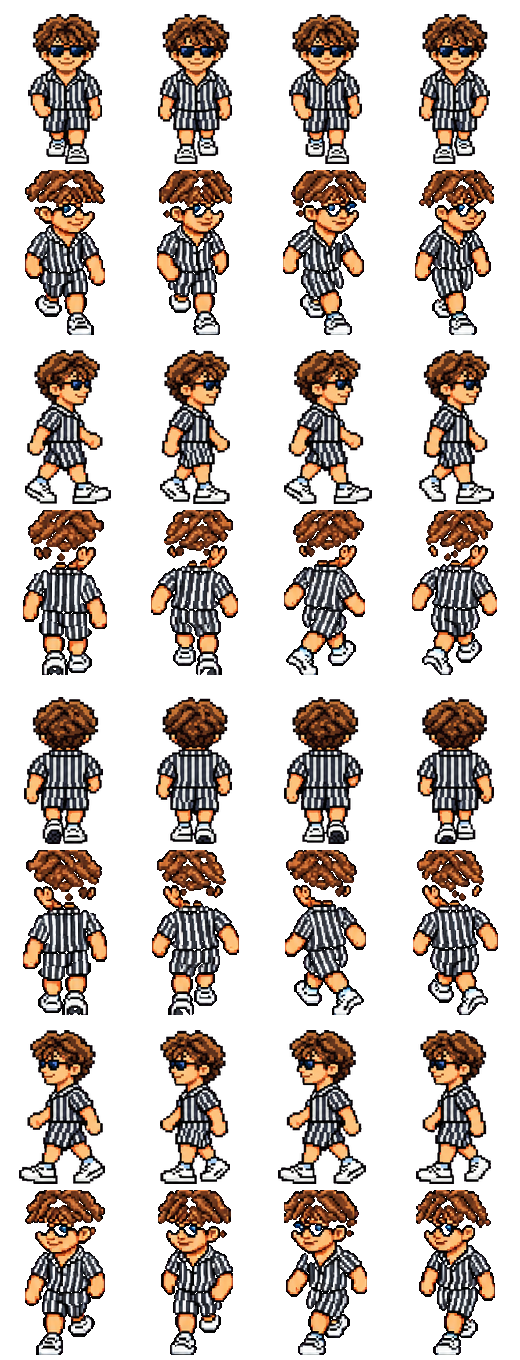
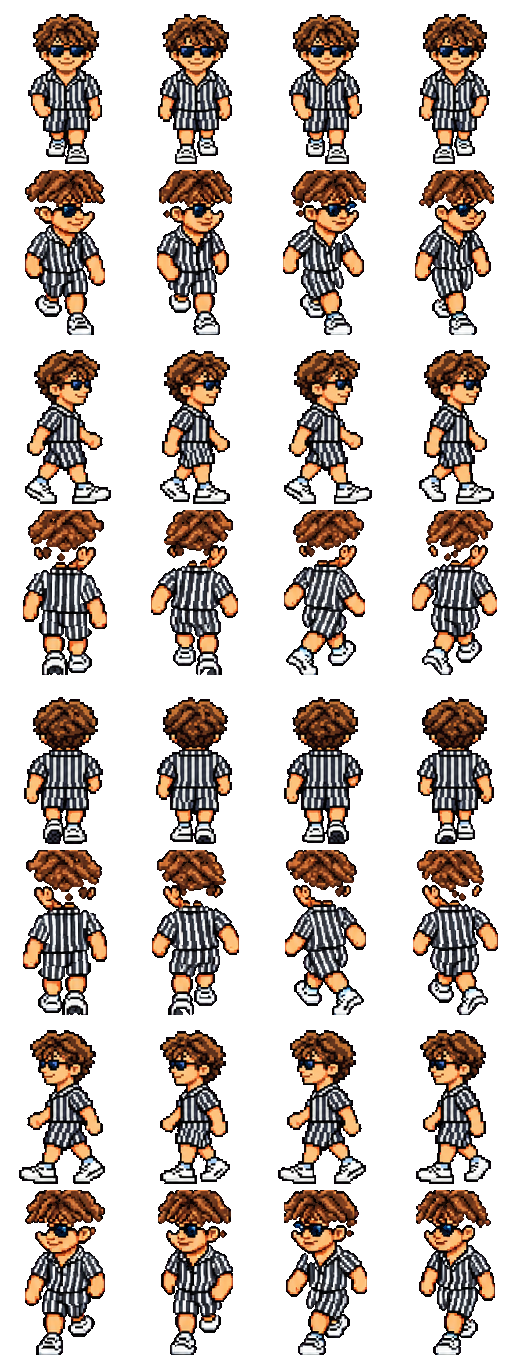
Characters: clean Arek 8-direction sheet, regrid NPC cells, drop cemetery no-glasses variant
- arek_sheet_8dir.png: filled see-through hair/glasses/collar holes in diagonal rows
  (gen/sprite_cleanup.py upper-holes); keying holes fixed + alpha hardened in Arek sheets
- npcs.png: grandpa + mateusz re-gridded (sources in gen/npc_src/*_grid.png)
- Arek uses only arek_sheet_8dir.png (no extra arek_sheet.png download at runtime)
- no-glasses sheets, generator and sunglasses test moved to _archive/2026-10-03-arek-noglasses
- cemetery line: 'Arek zwalnia i idzie ciszej.' / 'Arek slows down and walks quietly.'

Changed region(s): [[0.3692, 0.1235, 0.4, 0.1544], [0.1231, 0.1235, 0.1538, 0.1544], [0.0923, 0.8647, 0.1231, 0.8956]]

diff --git a/docs/js/game.js b/docs/js/game.js
@@ -60,7 +60,7 @@
       ],
       church: ['Kościół pw. Narodzenia NMP. Dzwony biją w południe. Arek, jak zwykle, spóźniony.'],
       rectory: ['Plebania. Ksiądz macha z okna. Arek udaje, że poprawia okulary.'],
-      cemetery: ['Cmentarz parafialny. Arek zdejmuje okulary. Na chwilę.'],
+      cemetery: ['Cmentarz parafialny. Arek zwalnia i idzie ciszej.'],
       windmill: ['Wiatrak „Koźlak”. Stoi tu dłużej niż ktokolwiek pamięta. Skrzypi, jakby coś mówił.'],
       shop: ['Sklep spożywczo-przemysłowy. Półki są ciasne, ale pełne: oranżada, chleb, konserwy, nabiał i słodycze.', 'Pani sklepowa zna ceny na pamięć. I wie, kto kupił ostatniego pączka.'],
       shopBuy: ['Pani ze sklepu: „Oranżada? Ostatnia butelka, dla Marcina.”', 'Arek dostaje oranżadę!'],
@@ -126,7 +126,7 @@
       ],
       church: ['Church of the Nativity of the Virgin Mary. Bells at noon. Arek is late, as usual.'],
       rectory: ['The rectory. The priest waves from a window. Arek pretends to fix his sunglasses.'],
-      cemetery: ['The parish cemetery. Arek takes his sunglasses off. For a moment.'],
+      cemetery: ['The parish cemetery. Arek slows down and walks quietly.'],
       windmill: ['The "Koźlak" windmill. Older than anyone remembers. It creaks like it wants to talk.'],
       shop: ['The village shop. Tight aisles, full shelves: orangeade, bread, tins, dairy and sweets.', 'The shopkeeper knows every price by heart. And who bought the last doughnut.'],
       shopBuy: ['Shop lady: "Orangeade? Last bottle. For Marcin."', 'Arek got an ORANGEADE!'],
@@ -1201,16 +1201,6 @@
   addEventListener('resize', resize);
 
   function shadow(sx, sy, s, w = 8.5) { ctx.fillStyle = 'rgba(20,34,12,0.38)'; ctx.beginPath(); ctx.ellipse(sx, sy, w * s, 3 * s, 0, 0, Math.PI * 2); ctx.fill(); }
-  // Cemetery zone: the OSM landuse rectangle around the cemetery POI (same as music.js), with hysteresis at the edge.
-  // Inside it Arek takes his sunglasses off (img/arek_sheet_noglasses.png, same layout as arek_sheet.png).
-  const CEM_HALF = [112, 97];
-  let inCemetery = false;
-  function cemeteryZone() {
-    const c = !ROOM && MAP && MAP.pois.find(p => p.key === 'cemetery');
-    if (!c) return (inCemetery = false);
-    const m = inCemetery ? 70 : 25;
-    return (inCemetery = Math.abs(P.x - c.x) < CEM_HALF[0] + m && Math.abs(P.y - c.y) < CEM_HALF[1] + m);
-  }
   function spriteAnim(meta, prefix, dir) {
     return meta.anims[prefix + dir] || meta.anims[prefix + cardinalDir(dir)] || meta.anims[prefix + 'down'];
   }
@@ -1218,7 +1208,7 @@
     const h = CHAR_H * s, zk = 1 - P.z / JUMP_H * .45;
     ctx.globalAlpha = zk; shadow(sx, sy, s * zk); ctx.globalAlpha = 1;
     sy -= P.z * s;
-    const { meta } = SPR, sheet = (inCemetery && selectedCharacter === 'arek' && SPR.bare) || SPR.sheet;   // no-glasses sheet exists only for Arek
+    const { meta, sheet } = SPR;
     const anim = spriteAnim(meta, P.moving || P.air ? 'walk_' : 'idle_', P.dir) || spriteAnim(meta, 'walk_', P.dir);
     const f = anim.frames[P.air ? 2 % anim.frames.length : P.moving ? Math.floor(P.step) % anim.frames.length : 0];
     const scale = h / (f.h - meta.foot - 14), w = f.w * scale, hh = f.h * scale;
@@ -1666,7 +1656,6 @@ function drawFrodo(sx, sy, s) {
     if (!ROOM) HOOKS.world.forEach(f => f((base, fn) => draw.push({ base, fn }), S, inView));
     draw.sort((a, b) => a.base - b.base).forEach(d => d.fn());
     const cemetery = !ROOM && MAP.pois.find(p => p.key === 'cemetery');
-    cemeteryZone();   // decides the sunglasses for the next frame too
     if (scene === 'play' && !showMap && cemetery && Math.hypot(P.x - cemetery.x, P.y - cemetery.y) < (SPOT_R.cemetery + 35)) {
       ctx.save(); ctx.globalCompositeOperation = 'saturation'; ctx.globalAlpha = .16; ctx.fillStyle = '#777'; ctx.fillRect(0, 0, W, H); ctx.restore();
     }
@@ -1830,7 +1819,7 @@ function drawFrodo(sx, sy, s) {
       x: b.x, y: b.y, hx: b.x, hy: b.y, vx: 0, vy: 0, angle: 0, roll: 0,
     })));
     PLAYER_SHEETS = Object.fromEntries(await Promise.all(PLAYABLE_CHARACTERS.map(async character => {
-      const sheetName = `${character}_sheet`;
+      const sheetName = character === 'arek' ? 'arek_sheet_8dir' : `${character}_sheet`;   // Arek: only the 8-direction sheet
       const [sheet, meta] = await Promise.all([load(`img/${sheetName}.png`), fetch(`img/${sheetName}.json`).then(r => r.json())]);
       return [character, { sheet, meta, sheetName }];
     })));
@@ -1846,15 +1835,9 @@ function drawFrodo(sx, sy, s) {
     ]);
     const [g, o, c, terrainImg, npcs, dog, _font, _churchArt, memories] = loaded;
     MEMORY_ART = memories;
-    const [arek8, arek8meta] = await Promise.all([load('img/arek_sheet_8dir.png'), fetch('img/arek_sheet_8dir.json').then(r => r.json())]);
-    PLAYER_SHEETS.arek = { sheet: arek8, meta: arek8meta, sheetName: 'arek_sheet_8dir' };
     GROUND = g; OBJ = o; SPR = PLAYER_SHEETS[selectedCharacter] || PLAYER_SHEETS.arek; NPCIMG = npcs; DOGIMG = dog;
     load('img/frodo_idle.png').then(img => { FRODO_IDLE = img; }, () => { });   // optional idle poses (sit, lick...)
     load('img/trash.png').then(img => { TRASH_IMG = img; }, () => { });   // trash bag pickup art (pixel fallback until loaded)
-    load('img/arek_sheet_8dir_noglasses.png').then(img => {
-      PLAYER_SHEETS.arek.bare = img;
-      if (selectedCharacter === 'arek') SPR = PLAYER_SHEETS.arek;
-    }, () => { });   // optional no-glasses variant with the same 8-direction layout
     {   // walking speed and mushroom placement use the same terrain classification
       const t = document.createElement('canvas'); t.width = terrainImg.width; t.height = terrainImg.height;
       const tx2 = t.getContext('2d', { willReadFrequently: true }); tx2.drawImage(terrainImg, 0, 0);
@@ -1972,7 +1955,7 @@ function drawFrodo(sx, sy, s) {
     window.__game = { P, get playerCharacter() { return selectedCharacter; }, get playerSheetName() { return SPR ? `${SPR.sheetName}.png` : null; }, get cloudCount() { return CLOUDS.length; }, characterButtonCenter(id) {   // CSS-pixel centre of a selector button (tests)
       const b = characterButtonBounds().find(x => x.id === id), k = cvs.width / Math.max(1, innerWidth);
       return b ? [(b.x + b.w / 2) / k, (b.y + b.h / 2) / k] : null;
-    }, get playerName() { return heroName(); }, get FRODO() { return FRODO; }, get MAP() { return MAP; }, get sunglasses() { return !(inCemetery && selectedCharacter === 'arek' && SPR.bare); }, mapPlaceName, mapHoverLabel: (x, y, r = 60) => mapHoverLabel(+x, +y, r), worldHoverLabel: (x, y) => worldHoverLabel(+x, +y), worldPickAt: (x, y) => worldPickAt(+x, +y), worldHoverLabelAtCanvas: (px, py) => worldHoverLabelAtCanvas(+px, +py), worldHoverLabelState: () => worldHoverLabelState(Math.min(cvs.width, cvs.height * 1.6) / 100, cvs.width, cvs.height), get bales() { return BALES; }, get showMap() { return showMap; }, set showMap(v) { showMap = !!v; }, terrainAt, mushroomTotal: MUSHROOMS_TOTAL, mushroomNeeded: MUSHROOMS_NEEDED, mushroomCount, mushroomPalette: { white: true }, hudCountersSingleLine: true, directionSigns: DIRECTION_SIGNS, get directionSignVisibility() { const e = directionSignEdges(cvs.width); return { left: e.left, right: e.right }; }, edytkaStay: EDYTKA_STAY, ITEMS, blocked, clickTarget, mapCursor, copyMapCoordinates, sectorAt, clockGeometry: () => {
+    }, get playerName() { return heroName(); }, get FRODO() { return FRODO; }, get MAP() { return MAP; }, mapPlaceName, mapHoverLabel: (x, y, r = 60) => mapHoverLabel(+x, +y, r), worldHoverLabel: (x, y) => worldHoverLabel(+x, +y), worldPickAt: (x, y) => worldPickAt(+x, +y), worldHoverLabelAtCanvas: (px, py) => worldHoverLabelAtCanvas(+px, +py), worldHoverLabelState: () => worldHoverLabelState(Math.min(cvs.width, cvs.height * 1.6) / 100, cvs.width, cvs.height), get bales() { return BALES; }, get showMap() { return showMap; }, set showMap(v) { showMap = !!v; }, terrainAt, mushroomTotal: MUSHROOMS_TOTAL, mushroomNeeded: MUSHROOMS_NEEDED, mushroomCount, mushroomPalette: { white: true }, hudCountersSingleLine: true, directionSigns: DIRECTION_SIGNS, get directionSignVisibility() { const e = directionSignEdges(cvs.width); return { left: e.left, right: e.right }; }, edytkaStay: EDYTKA_STAY, ITEMS, blocked, clickTarget, mapCursor, copyMapCoordinates, sectorAt, clockGeometry: () => {
       const u = Math.min(cvs.width, cvs.height * 1.6) / 100;
       ctx.font = `${u * 2}px Silkscreen`; ctx.textAlign = 'left';
       const text = fmtTime(Q.playTime);

diff --git a/gen/sprite_cleanup.py b/gen/sprite_cleanup.py
@@ -1,0 +1,138 @@
+"""Sprite cleanup + re-grid tools for character sheets (style guide v0.1, 2026-10-02).
+
+fix_holes:  fill small enclosed transparent holes left by old magenta keying (MinFilter grew
+            pinkish pixels into 3x3 holes in hair/stripes/glasses) and harden alpha to 0/255.
+            Real gaps (between arm and torso, between legs) are larger and outlined dark; kept.
+regrid:     re-draw a sprite on a coarse pixel grid (BOX downscale -> shared palette -> nearest
+            upscale), the recipe that produced the approved Sołtys/Zbyszek cells.
+
+    python gen/sprite_cleanup.py holes docs/img/arek_sheet_8dir.png [...]
+    python gen/sprite_cleanup.py upper-holes docs/img/arek_sheet_8dir.png   # diagonal hair/glasses holes
+    python gen/sprite_cleanup.py npc grandpa mateusz      # rewrites only those atlas cells
+"""
+import sys
+from pathlib import Path
+
+import numpy as np
+from PIL import Image
+from scipy import ndimage
+
+ROOT = Path(__file__).resolve().parents[1]
+CELL_W, CELL_H, FOOT, TARGET_H = 130, 170, 6, 150     # gen/build_npcs.py
+ORDER = ['kasia', 'marcin', 'damian', 'grandpa', 'irenka', 'kuba', 'michal', 'mateusz', 'patryk',
+         'zbyszek', 'wesoly_swiat', 'edytka', 'renik', 'soltys']
+SMALL, MEDIUM = 12, 60
+
+
+def fix_holes_cell(cell):
+    a = np.array(cell.convert('RGBA'))
+    alpha = a[..., 3]
+    body = alpha >= 128
+    holes = ndimage.binary_fill_holes(body) & ~body
+    lab, n = ndimage.label(holes)
+    fill = np.zeros_like(body)
+    luma = a[..., :3].astype(int) @ [299, 587, 114] // 1000
+    for i, sl in enumerate(ndimage.find_objects(lab), 1):
+        comp = lab == i
+        size = comp.sum()
+        if size > MEDIUM:
+            continue
+        ring = ndimage.binary_dilation(comp) & ~comp & body
+        dark = (luma[ring] < 60).mean() if ring.any() else 0
+        if size <= SMALL or dark < 0.6:
+            fill |= comp
+    solid = body | fill
+    # colour filled pixels from the nearest opaque body pixel
+    _, (iy, ix) = ndimage.distance_transform_edt(~body, return_indices=True)
+    rgb = a[..., :3].copy()
+    rgb[fill] = a[iy[fill], ix[fill], :3]
+    out = np.dstack([rgb, np.where(solid, 255, 0).astype(np.uint8)])
+    out[~solid, :3] = 0
+    return Image.fromarray(out), int(fill.sum())
+
+
+def fix_holes(path):
+    im = Image.open(path).convert('RGBA')
+    out = Image.new('RGBA', im.size, (0, 0, 0, 0))
+    filled = 0
+    for y in range(0, im.height, CELL_H):
+        for x in range(0, im.width, CELL_W):
+            c, f = fix_holes_cell(im.crop((x, y, x + CELL_W, y + CELL_H)))
+            out.paste(c, (x, y)); filled += f
+    out.save(path)
+    print(f'{path}: filled {filled} hole px, alpha hardened')
+
+
+def fill_upper_holes(path, rows=(1, 3, 5, 7), head=0.35, chest=0.5, centre=12):
+    """Fill enclosed holes in the head/glasses/collar of the given rows (default: Arek's diagonals).
+
+    fix_holes keeps holes > MEDIUM px or ringed by dark outline, which left see-through holes in the
+    hair and glasses of the diagonal frames. Here position decides: a hole whose centre lies in the top
+    `head` of the sprite, or in the top `chest` and within `centre` px of the body's middle, is filled.
+    Armpit gaps (side, ~0.5-0.6 height) and leg gaps (> 0.8) stay transparent.
+    """
+    im = np.array(Image.open(path).convert('RGBA'))
+    filled = 0
+    for r in rows:
+        for c in range(im.shape[1] // CELL_W):
+            ys0, xs0 = r * CELL_H, c * CELL_W
+            a = im[ys0:ys0 + CELL_H, xs0:xs0 + CELL_W]
+            body = a[..., 3] >= 128
+            if not body.any():
+                continue
+            by, bx = np.nonzero(body)
+            top, bot, mid = by.min(), by.max(), bx.mean()
+            lab, n = ndimage.label(ndimage.binary_fill_holes(body) & ~body)
+            fill = np.zeros_like(body)
+            for i in range(1, n + 1):
+                hy, hx = np.nonzero(lab == i)
+                rel = (hy.mean() - top) / (bot - top)
+                if rel < head or (rel < chest and abs(hx.mean() - mid) < centre):
+                    fill |= lab == i
+            if fill.any():
+                _, (iy, ix) = ndimage.distance_transform_edt(~body, return_indices=True)
+                a[fill, :3] = a[iy[fill], ix[fill], :3]
+                a[fill, 3] = 255
+                filled += int(fill.sum())
+    Image.fromarray(im).save(path)
+    print(f'{path}: filled {filled} upper-body hole px in rows {list(rows)}')
+
+
+def regrid(im, grid_h=84, colors=40):
+    im = im.crop(im.getbbox())
+    w = max(1, round(im.width * grid_h / im.height))
+    small = im.resize((w, grid_h), Image.Resampling.BOX)
+    a = np.array(small.getchannel('A')) >= 128
+    rgb = np.array(small.convert('RGB').quantize(colors=colors, dither=Image.Dither.NONE).convert('RGB'))
+    small = Image.fromarray(np.dstack([rgb, np.where(a, 255, 0).astype(np.uint8)]))
+    small, _ = fix_holes_cell(small)
+    return small
+
+
+def npc(names):
+    atlas = Image.open(ROOT / 'docs/img/npcs.png').convert('RGBA')
+    for n in names:
+        i = ORDER.index(n)
+        src = Image.open(ROOT / f'gen/npc_src/{"bukala" if n == "michal" else n}.png').convert('RGBA')
+        small = regrid(src)
+        small.save(ROOT / f'gen/npc_src/{n}_grid.png')          # coarse-grid source, for review/regeneration
+        h = TARGET_H; w = round(small.width * h / small.height)
+        if w > CELL_W:
+            w = CELL_W; h = round(small.height * w / small.width)
+        big = small.resize((w, h), Image.Resampling.NEAREST)
+        atlas.paste((0, 0, 0, 0), (i * CELL_W, 0, (i + 1) * CELL_W, CELL_H))
+        atlas.alpha_composite(big, (i * CELL_W + (CELL_W - w) // 2, CELL_H - FOOT - h))
+        print(f'{n}: slot {i}, grid {small.size}, drawn {w}x{h}')
+    atlas.save(ROOT / 'docs/img/npcs.png')
+
+
+if __name__ == '__main__':
+    cmd, *args = sys.argv[1:]
+    if cmd == 'holes':
+        for p in args:
+            fix_holes(p)
+    elif cmd == 'upper-holes':
+        for p in args:
+            fill_upper_holes(p)
+    elif cmd == 'npc':
+        npc(args)

diff --git a/gen/build_arek_8dir.py b/gen/build_arek_8dir.py
@@ -57,4 +57,4 @@ def build(source, output):
 
 
 build('docs/img/arek_sheet.png', 'docs/img/arek_sheet_8dir.png')
-build('docs/img/arek_sheet_noglasses.png', 'docs/img/arek_sheet_8dir_noglasses.png')
+
